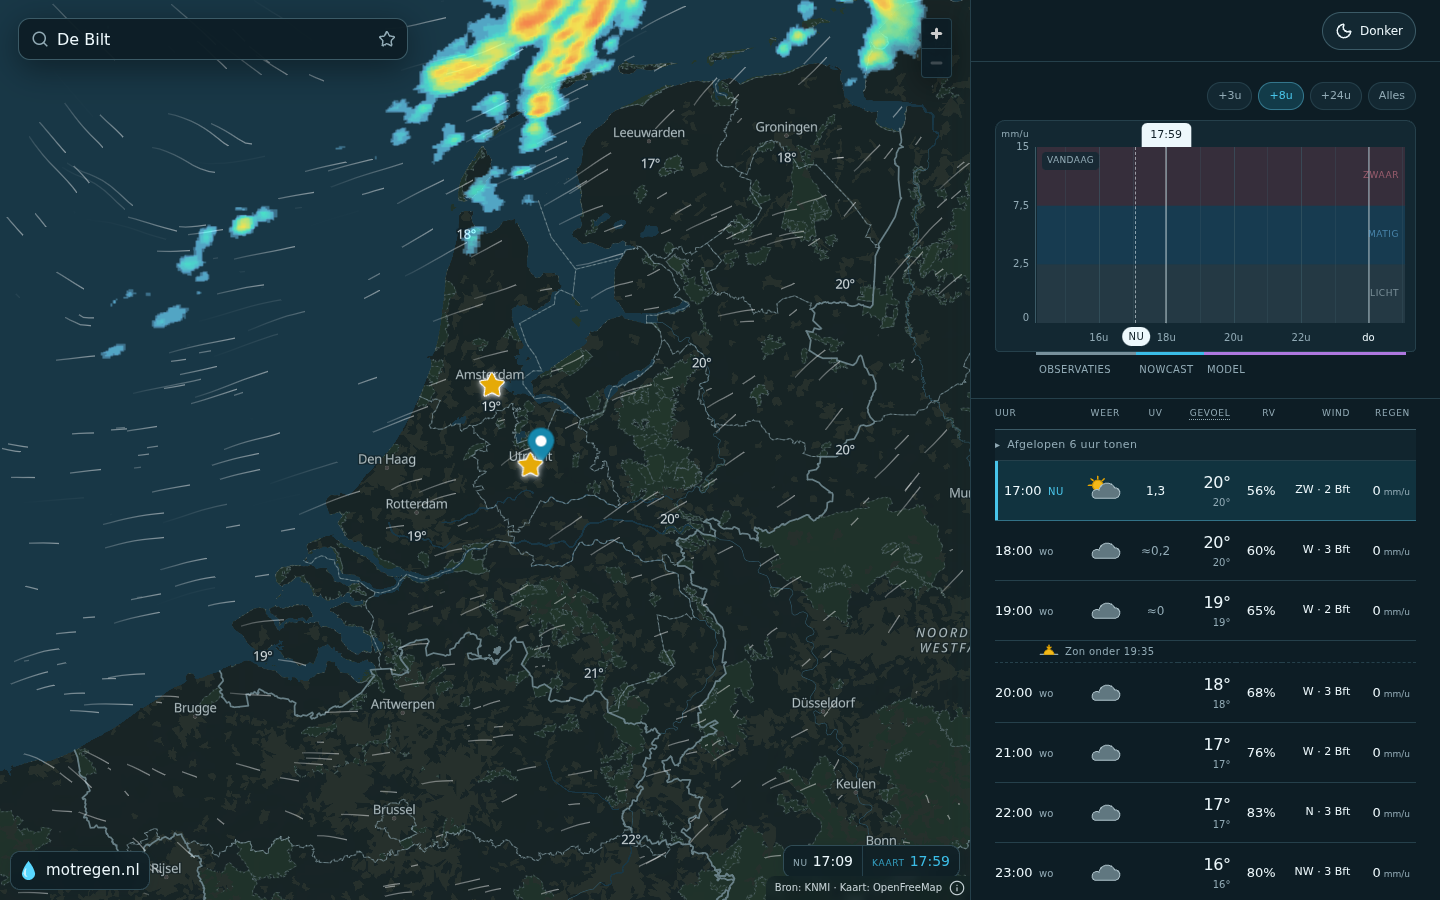
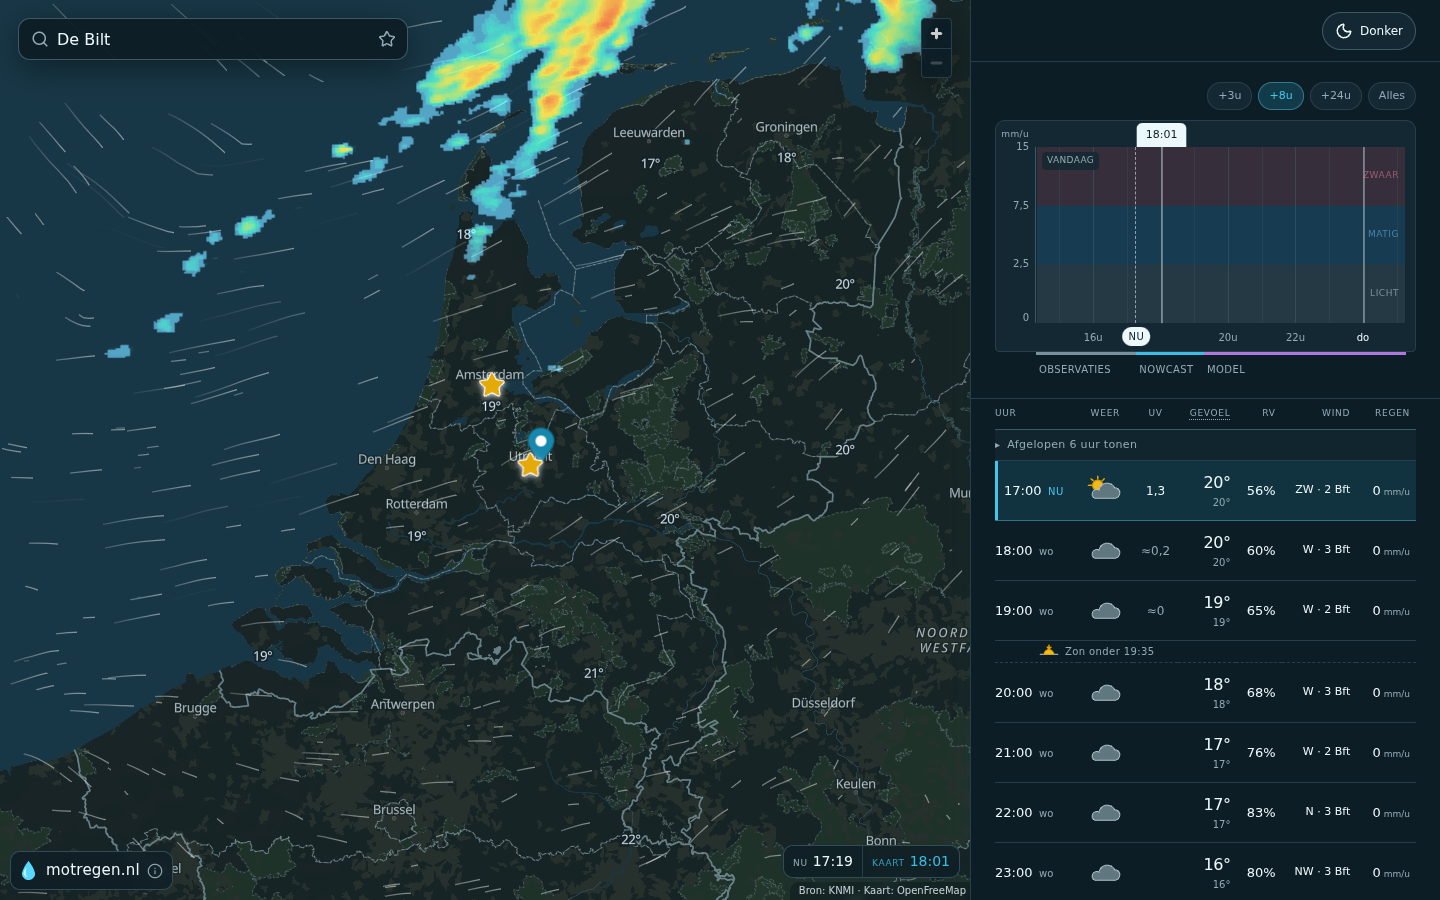
U11 punt 5: About via het motregen.nl-merk (Info-icoon), losse i-knop weg, triple-tap perf-HUD behouden; e2e groen, LOG + shots

diff --git a/web/src/components/About.test.tsx b/web/src/components/About.test.tsx
@@ -1,9 +1,12 @@
 // @vitest-environment jsdom
 import { cleanup, fireEvent, render, screen } from '@solidjs/testing-library'
-import { afterEach, beforeAll, describe, expect, it } from 'vitest'
+import { afterEach, beforeAll, describe, expect, it, vi } from 'vitest'
 import About, { REPOSITORY_URL } from './About'
 
-afterEach(cleanup)
+afterEach(() => {
+  cleanup()
+  vi.useRealTimers()
+})
 
 // jsdom has no modal dialog support; model the open/close contract we rely on.
 beforeAll(() => {
@@ -16,8 +19,8 @@ beforeAll(() => {
 })
 
 describe('about dialog', () => {
-  it('opens from the source line, names the KNMI sources and returns focus on close', () => {
-    render(() => <About />)
+  it('opens from the brand via keyboard activation, names the KNMI sources and returns focus on close', () => {
+    render(() => <About onTripleTap={() => undefined} />)
     const trigger = screen.getByRole('button', { name: 'Over motregen' })
     const dialog = document.querySelector('dialog')!
     expect(dialog.open).toBe(false)
@@ -35,12 +38,37 @@ describe('about dialog', () => {
   })
 
   it('closes on a backdrop click but not on a click inside', () => {
-    render(() => <About />)
+    render(() => <About onTripleTap={() => undefined} />)
     const dialog = document.querySelector('dialog')!
     fireEvent.click(screen.getByRole('button', { name: 'Over motregen' }))
     fireEvent.click(screen.getByText(/Geen tracking/))
     expect(dialog.open).toBe(true)
     fireEvent.click(dialog)
+    expect(dialog.open).toBe(false)
+  })
+
+  it('opens on a single brand tap after a short delay, and a triple tap toggles perf instead', () => {
+    vi.useFakeTimers()
+    const onTripleTap = vi.fn()
+    render(() => <About onTripleTap={onTripleTap} />)
+    const brand = screen.getByRole('button', { name: 'Over motregen' })
+    const dialog = document.querySelector('dialog')!
+    expect(brand.textContent).toContain('motregen.nl')
+    expect(brand.querySelector('svg.lucide-info')?.getAttribute('aria-hidden')).toBe('true')
+
+    fireEvent.click(brand, { detail: 1 })
+    expect(dialog.open).toBe(false)
+    vi.advanceTimersByTime(400)
+    expect(dialog.open).toBe(true)
+    dialog.close()
+
+    vi.advanceTimersByTime(1_000)
+    for (const detail of [1, 2, 3]) {
+      fireEvent.click(brand, { detail })
+      vi.advanceTimersByTime(40)
+    }
+    vi.advanceTimersByTime(1_000)
+    expect(onTripleTap).toHaveBeenCalledOnce()
     expect(dialog.open).toBe(false)
   })
 })

diff --git a/web/src/components/About.tsx b/web/src/components/About.tsx
@@ -1,10 +1,19 @@
+import { onCleanup } from 'solid-js'
 import { BUTTON_ICON, INLINE_ICON, Info, X } from './icons'
 
 export const REPOSITORY_URL = 'https://github.com/mathijshenquet/motregen'
 
-export default function About() {
+/** Wacht zo lang met openen dat een dubbel-/triple-tap op het merk de dialog niet over de volgende taps legt. */
+const SINGLE_TAP_DELAY_MS = 350
+const TAP_WINDOW_MS = 700
+
+export default function About(props: { onTripleTap: () => void }) {
   let dialog!: HTMLDialogElement
   let trigger!: HTMLButtonElement
+  let tapCount = 0
+  let lastTap = -Infinity
+  let pendingOpen: number | undefined
+  onCleanup(() => window.clearTimeout(pendingOpen))
 
   function open(): void {
     dialog.showModal()
@@ -14,9 +23,25 @@ export default function About() {
     dialog.close()
   }
 
-  return <div class="source">
-    <span>Bron: KNMI · Kaart: OpenFreeMap</span>
-    <button ref={trigger} type="button" class="about-button" aria-haspopup="dialog" aria-label="Over motregen" title="Over motregen" onClick={open}><Info {...INLINE_ICON} /></button>
+  function tapBrand(event: MouseEvent): void {
+    window.clearTimeout(pendingOpen)
+    // Toetsenbordactivatie (detail 0) is nooit een tapreeks.
+    if (event.detail === 0) { open(); return }
+    const now = performance.now()
+    tapCount = now - lastTap <= TAP_WINDOW_MS ? tapCount + 1 : 1
+    lastTap = now
+    if (tapCount === 1) pendingOpen = window.setTimeout(open, SINGLE_TAP_DELAY_MS)
+    if (tapCount === 3) {
+      tapCount = 0
+      props.onTripleTap()
+    }
+  }
+
+  return <>
+    <button ref={trigger} type="button" class="map-brand brand" aria-haspopup="dialog" aria-label="Over motregen" title="Over motregen" onClick={tapBrand}>
+      <img src="/droplet.svg" alt="" /><strong>motregen.nl</strong><Info {...INLINE_ICON} />
+    </button>
+    <div class="source"><span>Bron: KNMI · Kaart: OpenFreeMap</span></div>
     <dialog
       ref={dialog}
       class="about-dialog"
@@ -43,5 +68,5 @@ export default function About() {
         <a class="about-repo" href={REPOSITORY_URL} target="_blank" rel="noopener">Broncode op GitHub ↗</a>
       </div>
     </dialog>
-  </div>
+  </>
 }

diff --git a/web/src/App.tsx b/web/src/App.tsx
@@ -94,8 +94,6 @@ export default function App() {
   let sunEpochBucket = Number.NaN
   let rainReadyPending = false
   let scrubPrefetch = false
-  let logoTapCount = 0
-  let lastLogoTap = 0
   let initialPickStarted = false
   let pointLoad: PointLoadState | undefined
   const windFrameCache = new Map<string, Promise<Float32Array>>()
@@ -1220,16 +1218,6 @@ export default function App() {
     setCursor(cursor)
   }
 
-  function tapLogo(): void {
-    const now = performance.now()
-    logoTapCount = now - lastLogoTap <= 700 ? logoTapCount + 1 : 1
-    lastLogoTap = now
-    if (logoTapCount === 3) {
-      logoTapCount = 0
-      setPerfVisible((visible) => !visible)
-    }
-  }
-
   const manifestNow = () => manifest() ? Date.parse(manifest()!.now) : 0
   const forecast = createMemo(() => buildHourlyForecast({
     rain: timeline(),
@@ -1283,7 +1271,7 @@ export default function App() {
           <strong>motregen.nl</strong>
         </div>
       </div>
-      <button type="button" class="map-brand brand" onClick={tapLogo} aria-label="motregen.nl"><img src="/droplet.svg" alt="" /><strong>motregen.nl</strong></button>
+      <About onTripleTap={() => setPerfVisible((visible) => !visible)} />
       <button class="round-action theme-button mobile-map-theme" onClick={cycleTheme} aria-label={`Thema: ${themeMeta().label}. Klik voor ${themeMeta().next}`} title={`Thema: ${themeMeta().label}`}>
         <Dynamic component={themeMeta().icon} {...BUTTON_ICON} />
       </button>
@@ -1316,7 +1304,6 @@ export default function App() {
         </details>
       </Show>
       <MapClock mapEpoch={selectedEpoch()} now={manifestNow()} />
-      <About />
     </section>
     <aside class="dashboard">
       <nav class="sidebar-nav" aria-label="Instellingen en locatie">

diff --git a/web/src/styles.css b/web/src/styles.css
@@ -105,6 +105,8 @@ button { color: inherit; cursor: pointer; }
   backdrop-filter: blur(8px);
 }
 .map-brand img { width: 21px; height: 25px; }
+.map-brand svg { flex: none; color: var(--muted); }
+.map-brand:hover svg, .map-brand:focus-visible svg { color: var(--accent); }
 .map-brand strong { font-family: "Avenir Next", Avenir, "Trebuchet MS", ui-sans-serif, sans-serif; font-size: 15px; font-weight: 600; letter-spacing: .015em; }
 .map-splash {
   position: absolute;
@@ -179,19 +181,6 @@ button { color: inherit; cursor: pointer; }
   line-height: 1.2;
   backdrop-filter: blur(4px);
 }
-.about-button {
-  position: relative;
-  width: 18px;
-  height: 18px;
-  display: grid;
-  place-items: center;
-  padding: 0;
-  border: 0;
-  border-radius: 50%;
-  color: inherit;
-  background: transparent;
-}
-.about-button:hover, .about-button:focus-visible { color: #fff; background: rgba(255, 255, 255, .14); outline: none; }
 .about-dialog {
   inset: 0;
   width: min(420px, calc(100vw - 32px));
@@ -500,7 +489,7 @@ td:first-child span.sun-mark { display: block; margin-top: 1px; color: #b07800; 
   .round-action { height: 44px; min-width: 44px; }
   .about-close { width: 44px; height: 44px; }
   .remove-saved { width: 44px; }
-  .about-button::after { position: absolute; inset: -13px; content: ''; }
+  .map-brand { min-height: 44px; }
   .save-place::after { position: absolute; inset: -6px; content: ''; }
 }
 

diff --git a/.dev/tracks/u11-lucide-icons/LOG.md b/.dev/tracks/u11-lucide-icons/LOG.md
@@ -19,3 +19,22 @@
 - Gates: `pnpm typecheck` exit 0; `pnpm test` exit 0 (31 files, 161 tests); `pnpm build` exit 0.
 - Bundel na: `index-*.js 1,213.15 kB │ gzip 337.86 kB` (+14,7 kB raw, +5,6 kB gzip); css `108.68 kB │ gzip 18.27 kB`. Sourcemap-analyse: de iconen zelf zijn ~0,6 kB elk; de rest is lucide's generieke `Icon` die `Dynamic` + props-`spread` uit `solid-js/web` activeert (runtime die de app nog niet laadde). Inherent aan lucide-solid.
 - Na-shots: lokale `pnpm preview --port 4306` met `MOTREGEN_DATA_ORIGIN=http://100.108.127.86:4300/data` (zelfde data als vóór) → exit 0, `shots/after-*`.
+
+## 2026-09-23T17:25 — Eerste commit + draft-PR
+- Commit `5000af1` gepusht; draft-PR https://github.com/mathijshenquet/motregen/pull/38.
+
+## 2026-09-23T17:40 — Punt 5 (PO): About via het merkpilletje
+- `About.tsx` rendert nu zelf het merk (`.map-brand.brand`, droplet + "motregen.nl" + Lucide `Info` 16 px, `aria-label="Over motregen"`, `aria-haspopup="dialog"`), de bronregel (zonder knop) en de dialog. De losse `.about-button` en haar CSS zijn weg.
+- De tap-telling verhuisde van `App.tsx` (`tapLogo`) naar About (`onTripleTap`-prop → perf-HUD toggle in App): één component beslist zo tussen About en HUD. Eerste tap in een reeks plant About over 350 ms; elke volgende tap binnen het 700 ms-venster annuleert die; de derde tap toggelt de HUD. Toetsenbordactivatie (`detail === 0`) opent direct. Reden voor de vertraging: `showModal()` legt de backdrop over het merk, dan zouden tap 2/3 op de backdrop landen.
+- Aanraakdoel merk op touch: `min-height: 44px` (was ~39 px). Focus keert na sluiten terug naar het merk.
+- Unit-test: vertraagd openen bij enkele tap, triple-tap roept `onTripleTap` en opent About níet.
+
+## 2026-09-23T17:55 — Gates (na punt 5)
+- `pnpm typecheck` exit 0; `pnpm test` exit 0 (31 files, 162 tests); `pnpm build` exit 0 → `index-*.js 1,213.26 kB │ gzip 337.99 kB`, css `108.53 kB │ gzip 18.25 kB` (t.o.v. vóór: +14,9 kB raw / +5,8 kB gzip js).
+- `MOTREGEN_E2E_PORT=4305 MOTREGEN_E2E_DATA_PORT=8305 pnpm e2e` (één run) → exit 0: 9 passed, 9 skipped (één-profiel-tests). perf.spec incl. stap "logo triple-tap toggles the HUD" groen op desktop, mobile-4g, mobile-fast-3g. Passief synth: 755 460 B op alle profielen (budget ≤ 800 kB).
+- Let op bij repro: de e2e-webserver herbouwt `dist` met `VITE_BASEMAP_STYLE_URL` naar de e2e-dataserver; opnieuw `pnpm build` vóór een preview voor screenshots.
+- Na-shots opnieuw (`shots.mjs` opent About via `.about-button` als die bestaat, anders `.map-brand` + 700 ms) → exit 0, `shots/after-*` overschreven.
+
+## Open
+- `Freshness.tsx` (U10, verversknop → `RefreshCw`, draaiend tijdens verversen) staat nog niet op main (gecontroleerd `origin/main` @ `1d0061d`). Volgt na merge van U10 als kleine vervolgcommit.
+- `nix flake check` bij merge (pnpm-lock gewijzigd) — orchestrator.
